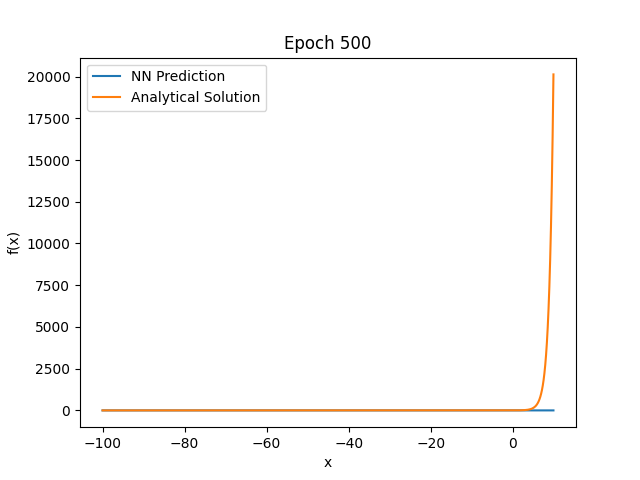
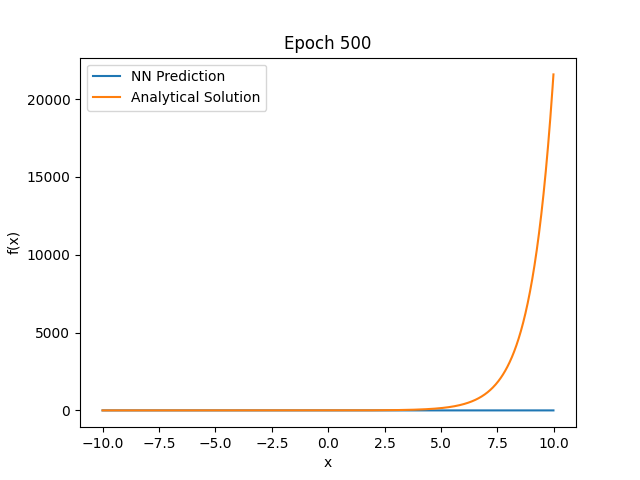
mps device

diff --git a/model/model.py b/model/model.py
@@ -32,10 +32,9 @@ from torch.nn.init import (
     xavier_uniform_,
 )
 
+from typing import Dict, Tuple
 from torch import Tensor
 from torch.optim import Adam
-
-from typing import Dict
 
 from torch.nn import (
     ReLU,
@@ -46,10 +45,13 @@ from torch.nn import (
     Sequential,
 )
 
+from __init__ import device
+
 # ======= Class =======
 
 
 class PINN(Module):
+    device=device
     zero_tensor = tensor([0.0]).view(-1, 1)
     one_tensor = tensor([1.0]).view(-1, 1)
 
@@ -63,29 +65,29 @@ class PINN(Module):
         super(PINN, self).__init__()
 
         # Input space
-        self.x = input_space.requires_grad_()
+        self.x: Tensor = input_space.requires_grad_().to(self.device) # [n, 1]
 
         # NN parameters
-        self.hidden_dim = nn_params.get('hidden_dim')
-        self.num_hidden_layers = nn_params.get('num_hidden_layers')
+        self.hidden_dim: int = nn_params.get('hidden_dim')
+        self.num_hidden_layers: int = nn_params.get('num_hidden_layers')
 
         # Training parameters
-        learning_rate = training_params.get('learning_rate')
-        self.nb_epochs = training_params.get('nb_epochs')
+        learning_rate: float = training_params.get('learning_rate')
+        self.nb_epochs: int = training_params.get('nb_epochs')
 
         # Loss function
-        self.loss_func_name = loss_func_name
+        self.loss_func_name: str = loss_func_name
 
         # Network parameters
-        self.input_dim = len(input_space)
-        self.network = self.construct_nn()
+        self.input_dim: int = len(input_space)
+        self.network: Sequential = self.construct_nn().to(self.device)
 
         # Training parameters
         self.optimizer = Adam(
             self.parameters(), 
             lr=learning_rate,
         )
-        self.mse_loss = MSELoss()
+        self.mse_loss = MSELoss().to(self.device)
 
         # Gif parameters
         os.makedirs('gifs', exist_ok=True)
@@ -97,16 +99,10 @@ class PINN(Module):
             - fourier: [n, 1] -> [n, m]
             - NN: [n, m] -> [n, 1]
         '''
-        return self.network(input_homeo(x))
+        # return self.network(fourier(input_homeo(x), dim=self.hidden_dim))
+        return self.network(x)
 
-#        return self.network(
-#            fourier(
-#                input_homeo(x),
-#                dim=self.hidden_dim,
-#            ),
-#        )
-
-    def construct_nn(self) -> None:
+    def construct_nn(self) -> Sequential:
         # Define constants
         input_dim = 1
         output_dim = 1
@@ -153,12 +149,13 @@ class PINN(Module):
             
             if epoch % 100 == 0:
                 print(f'Epoch {epoch}, Loss: {loss.item()}')
-                save_plot(epoch, self.x, y)
+                # Back to CPU for plotting
+                save_plot(epoch, self.x.cpu(), y.cpu())
 
         # Crate Gif with saved plots
         create_gif()
 
-    def exponential_loss(self, x: Tensor) -> float:
+    def exponential_loss(self, x: Tensor) -> Tuple[float, Tensor]:
         f = self.forward(x)
         df_dx = grad(
             outputs=f,
@@ -178,7 +175,7 @@ class PINN(Module):
 
         return physics_loss + (boundary_loss * num_inputs(f)), f
 
-    def cosinus_loss(self, x: Tensor) -> float:
+    def cosinus_loss(self, x: Tensor) -> Tuple[float, Tensor]:
         f = self.forward(x)
         df_dx = grad(
             outputs=f,

diff --git a/model/encoding.py b/model/encoding.py
@@ -4,13 +4,12 @@ Encodings for PINNs (pre-layers).
 Examples of encodings:
     1. Polynomial encoding, E(x) = (x, x^2, x^3,..., x^n).-
     2. Fourier encoding, E(x) = (cos(<f, x>), sin(<f, x>)).
-    3. TODO: Add more encodings and sources.
+    3. TODO: Add more encodings with respective sources.
 
 '''
 
 # ======= Imports =======
 
-import math
 import torch
 
 from torch import Tensor

diff --git a/__main__.py b/__main__.py
@@ -26,11 +26,13 @@ from model.model import PINN
 
 from torch import linspace
 
+from __init__ import device
+
 # ======= Main =======
 
 
 def main(
-    input_space: Tensor = linspace(-100, 100, 1_000).view(-1, 1), # [n, 1]
+    input_space: Tensor = linspace(-4, 4, 10_000).view(-1, 1), # [n, 1]
     nn_params: Dict = {
         'hidden_dim': 400,
         'num_hidden_layers': 6,

diff --git a/__init__.py b/__init__.py
@@ -1,0 +1,18 @@
+'''
+Constants and variables for the project.
+'''
+
+# ======= Imports =======
+
+import torch
+
+# ======= Variables =======
+
+# Detects if MPS is available
+device = torch.device("mps" if torch.backends.mps.is_available() else "cpu")
+
+# ======= Main =======
+
+
+if __name__ == '__main__':
+    print('Nothing to execute.')
